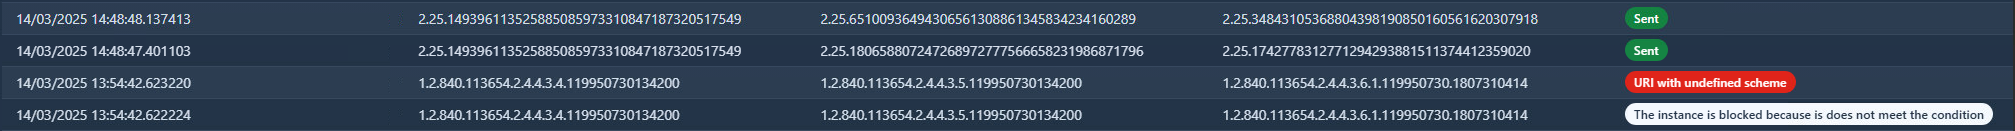
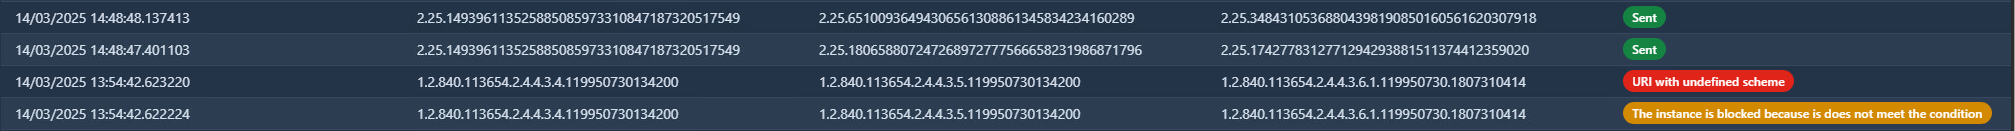
Set color of excluded instances to orange

diff --git a/content/userguide/monitoring.en.md b/content/userguide/monitoring.en.md
@@ -34,7 +34,7 @@ It is possible to filter by:
 
 The status of a transfer is defined as follows :
 * if the instance was successfully sent, it appears with the label "Sent" in green
-* if the instance was not sent because of the SOP filter, the destination condition or the use of ExcludeInstance() in the profile, it appears in white with a label corresponding to the reason why it was excluded
+* if the instance was not sent because of the SOP filter, the destination condition or the use of ExcludeInstance() in the profile, it appears in orange with a label corresponding to the reason why it was excluded
 * if the instance was not sent because an unexpected error occurred, it will appear in red with a label corresponding to the error that occurred
 
 ![Transfer statuses](/userguide/monitoring_statuses.png)
